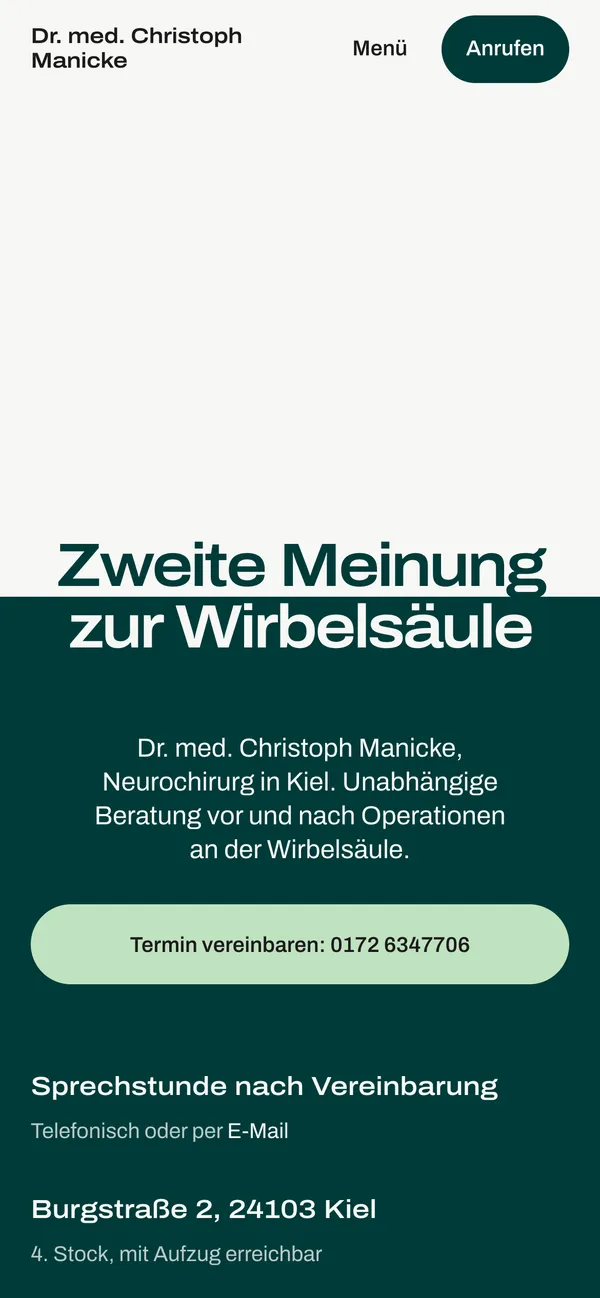
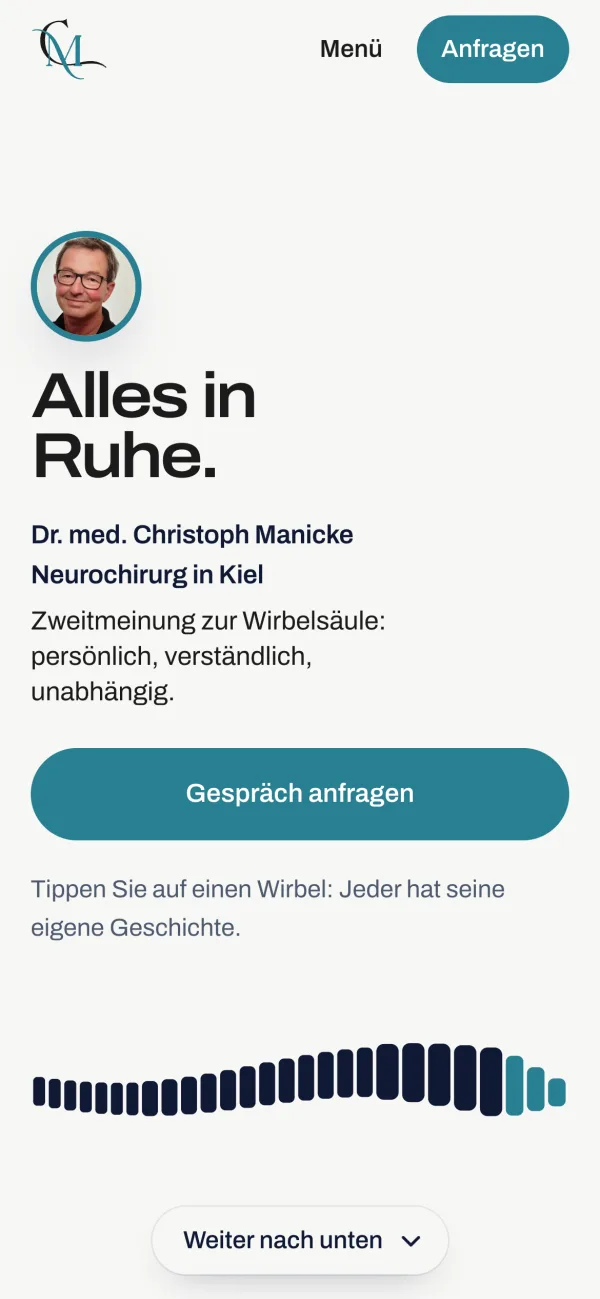
Startseite: Manicke ist live, vierte Karte bei den fertigen Seiten
christophmanicke.de ist online: neue Screenshots (Desktop und Handy), Karte mit
Link in der Werkreihe ("Vier Seiten ..."), raus aus "In Arbeit". Gruppe 42
steht dort jetzt allein über die volle Breite. Deutsch und Englisch.

diff --git a/public/index.html b/public/index.html
@@ -160,7 +160,7 @@ header { position:fixed; left:0; right:0; }
 .fanbox { position:absolute; left:-20vw; bottom:-17vw; width:min(72vw, 1080px); aspect-ratio:660/520; pointer-events:none; }
 .works { position:absolute; left:var(--pad); right:var(--pad); top:calc(88px + 3vh); z-index:2; }
 .works h2 { font-size:clamp(36px, 4.6vw, 68px); max-width:16em; }
-.slots { display:grid; grid-template-columns:repeat(3, 1fr); gap:clamp(20px, 3vw, 48px); margin-top:clamp(28px, 5vh, 64px); max-width:calc((100vh - 380px) * 4.3 + 96px); }
+.slots { display:grid; grid-template-columns:repeat(4, 1fr); gap:clamp(20px, 2.4vw, 40px); margin-top:clamp(28px, 5vh, 64px); max-width:calc((100vh - 380px) * 5.7 + 120px); }
 .slot { display:block; text-decoration:none; }
 /* Each card carries its phone view at the lower right, as on the close-ups; card and phone fade in together. */
 .slot .ph { position:relative; padding:0 7% 10% 0; opacity:.001; transform:scale(.92); will-change:transform, opacity; }
@@ -220,7 +220,7 @@ section, .stage { scroll-margin-top:72px; }
   .fanbox { width:min(130vw, calc((100vh - 400px + 14vw) * 1.27)); left:-36vw; bottom:-14vw; }
   .scroll-hint { display:none; }
   .slots { max-width:none; grid-template-columns:1fr; gap:14px; }
-  .slot { display:grid; grid-template-columns:min(40%, calc(((100vh - 300px) / 3 - 42px) * 1.6)) 1fr; column-gap:14px; }
+  .slot { display:grid; grid-template-columns:min(40%, calc(((100vh - 300px) / 4 - 42px) * 1.6)) 1fr; column-gap:14px; }
   .slot .ph { grid-row:span 2; padding:0; }
   .slot .phone { display:none; }
   .slot h3 { font-size:20px; margin-top:0; align-self:end; }
@@ -271,11 +271,12 @@ section, .stage { scroll-margin-top:72px; }
 </div>
 <p class="scroll-hint" id="hint">Weiter blättern ↓</p>
 <div class="works">
-<h2 class="s reveal">Drei Seiten, die schon draußen in der Welt sind.</h2>
+<h2 class="s reveal">Vier Seiten, die schon draußen in der Welt sind.</h2>
 <div class="slots">
 <a class="slot" href="https://zww-kiel.de" target="_blank" rel="noopener"><div class="ph"><div class="card"><div class="bar">zww-kiel.de</div><img src="assets/zww.webp" alt="Startseite von ZWW Uni Kiel" width="1600" height="1000"></div><img class="phone" src="assets/zww-mobil.webp" alt="" width="600" height="1298"></div><h3 class="s reveal">ZWW Uni Kiel</h3><p class="meta reveal">Hochschule, Weiterbildung</p></a>
 <a class="slot" href="https://habibihermanos.de" target="_blank" rel="noopener"><div class="ph"><div class="card"><div class="bar">habibihermanos.de</div><img src="assets/habibi.webp" alt="Startseite von Habibi Hermanos" width="1600" height="1000"></div><img class="phone" src="assets/habibi-mobil.webp" alt="" width="600" height="1298"></div><h3 class="s reveal">Habibi Hermanos</h3><p class="meta reveal">Musik, Kiel</p></a>
 <a class="slot" href="https://simonernstnirnberger.at" target="_blank" rel="noopener"><div class="ph"><div class="card"><div class="bar">simonernstnirnberger.at</div><img src="assets/simon.webp" alt="Startseite von Simon Ernst Nirnberger" width="1600" height="1000"></div><img class="phone" src="assets/simon-mobil.webp" alt="" width="600" height="1298"></div><h3 class="s reveal">Simon Ernst Nirnberger</h3><p class="meta reveal">Bildende Kunst</p></a>
+<a class="slot" href="https://christophmanicke.de" target="_blank" rel="noopener"><div class="ph"><div class="card"><div class="bar">christophmanicke.de</div><img src="assets/manicke.webp" alt="Startseite von Dr. med. Christoph Manicke" width="1600" height="1000"></div><img class="phone" src="assets/manicke-mobil.webp" alt="" width="600" height="1299"></div><h3 class="s reveal">Dr. med. Christoph Manicke</h3><p class="meta reveal">Neurochirurgie, Kiel</p></a>
 </div>
 </div>
 <div class="leaf" aria-hidden="true"><svg viewBox="585 140 470 490"><use href="#pg" style="fill:var(--paper);stroke:var(--paper)" stroke-width="30" stroke-linejoin="round"/><use href="#pg" style="fill:#BCD6EE"/><use href="#pg" style="fill:none;stroke:#BCD6EE" stroke-width="8" stroke-linejoin="round"/></svg></div>
@@ -286,13 +287,9 @@ section, .stage { scroll-margin-top:72px; }
 <section aria-labelledby="bald">
 <div class="wrap">
 <h2 class="s big" id="bald">Was gerade auf unserem Tisch liegt.</h2>
-<p class="soon-lead">Zwei Seiten, die noch nicht draußen sind. Bald.</p>
+<p class="soon-lead">Eine Seite, die noch nicht draußen ist. Bald.</p>
 <div class="cases">
-<article class="case">
-<div class="shot"><div class="frame"><div class="bar">Dr. med. Christoph Manicke<span class="status">In Arbeit</span></div><img src="assets/manicke.webp" alt="Entwurf der Startseite von Dr. med. Christoph Manicke: Zweite Meinung zur Wirbelsäule" width="1600" height="1000" loading="lazy"></div><img class="phone" src="assets/manicke-mobil.webp" alt="" width="600" height="1298" loading="lazy"></div>
-<h3 class="s">Dr. med. Christoph Manicke</h3><p class="sector">Neurochirurgie, Kiel</p><p class="d">Eine Praxisseite für die zweite Meinung zur Wirbelsäule: Leistungen, Ablauf, Fragen und der Weg zum Termin, per Telefon mit einem Tipp.</p>
-</article>
-<article class="case offset">
+<article class="case lead">
 <div class="shot"><div class="frame"><div class="bar">Gruppe 42<span class="status">In Arbeit</span></div><img src="assets/gruppe42.webp" alt="Entwurf der Startseite von Gruppe 42" width="1600" height="1000" loading="lazy"></div><img class="phone" src="assets/gruppe42-mobil.webp" alt="" width="600" height="1299" loading="lazy"></div>
 <h3 class="s">Gruppe 42</h3><p class="sector">Personalentwicklung und Beratung, Wien</p><p class="d">Ein Beratungsteam, viele Zielgruppen: Leistungen, Workshops nach Publikum, Referenzen, ein Seminarshop und eine Anfrage fürs erste Gespräch, alles auf einer Seite.</p>
 </article>

diff --git a/public/en/index.html b/public/en/index.html
@@ -160,7 +160,7 @@ header { position:fixed; left:0; right:0; }
 .fanbox { position:absolute; left:-20vw; bottom:-17vw; width:min(72vw, 1080px); aspect-ratio:660/520; pointer-events:none; }
 .works { position:absolute; left:var(--pad); right:var(--pad); top:calc(88px + 3vh); z-index:2; }
 .works h2 { font-size:clamp(36px, 4.6vw, 68px); max-width:16em; }
-.slots { display:grid; grid-template-columns:repeat(3, 1fr); gap:clamp(20px, 3vw, 48px); margin-top:clamp(28px, 5vh, 64px); max-width:calc((100vh - 380px) * 4.3 + 96px); }
+.slots { display:grid; grid-template-columns:repeat(4, 1fr); gap:clamp(20px, 2.4vw, 40px); margin-top:clamp(28px, 5vh, 64px); max-width:calc((100vh - 380px) * 5.7 + 120px); }
 .slot { display:block; text-decoration:none; }
 /* Each card carries its phone view at the lower right, as on the close-ups; card and phone fade in together. */
 .slot .ph { position:relative; padding:0 7% 10% 0; opacity:.001; transform:scale(.92); will-change:transform, opacity; }
@@ -220,7 +220,7 @@ section, .stage { scroll-margin-top:72px; }
   .fanbox { width:min(130vw, calc((100vh - 400px + 14vw) * 1.27)); left:-36vw; bottom:-14vw; }
   .scroll-hint { display:none; }
   .slots { max-width:none; grid-template-columns:1fr; gap:14px; }
-  .slot { display:grid; grid-template-columns:min(40%, calc(((100vh - 300px) / 3 - 42px) * 1.6)) 1fr; column-gap:14px; }
+  .slot { display:grid; grid-template-columns:min(40%, calc(((100vh - 300px) / 4 - 42px) * 1.6)) 1fr; column-gap:14px; }
   .slot .ph { grid-row:span 2; padding:0; }
   .slot .phone { display:none; }
   .slot h3 { font-size:20px; margin-top:0; align-self:end; }
@@ -271,11 +271,12 @@ section, .stage { scroll-margin-top:72px; }
 </div>
 <p class="scroll-hint" id="hint">Keep turning ↓</p>
 <div class="works">
-<h2 class="s reveal">Three sites already out in the world.</h2>
+<h2 class="s reveal">Four sites already out in the world.</h2>
 <div class="slots">
 <a class="slot" href="https://zww-kiel.de" target="_blank" rel="noopener"><div class="ph"><div class="card"><div class="bar">zww-kiel.de</div><img src="../assets/zww.webp" alt="Home page of ZWW Uni Kiel" width="1600" height="1000"></div><img class="phone" src="../assets/zww-mobil.webp" alt="" width="600" height="1298"></div><h3 class="s reveal">ZWW Uni Kiel</h3><p class="meta reveal">University, continuing education</p></a>
 <a class="slot" href="https://habibihermanos.de" target="_blank" rel="noopener"><div class="ph"><div class="card"><div class="bar">habibihermanos.de</div><img src="../assets/habibi.webp" alt="Home page of Habibi Hermanos" width="1600" height="1000"></div><img class="phone" src="../assets/habibi-mobil.webp" alt="" width="600" height="1298"></div><h3 class="s reveal">Habibi Hermanos</h3><p class="meta reveal">Music, Kiel</p></a>
 <a class="slot" href="https://simonernstnirnberger.at" target="_blank" rel="noopener"><div class="ph"><div class="card"><div class="bar">simonernstnirnberger.at</div><img src="../assets/simon.webp" alt="Home page of Simon Ernst Nirnberger" width="1600" height="1000"></div><img class="phone" src="../assets/simon-mobil.webp" alt="" width="600" height="1298"></div><h3 class="s reveal">Simon Ernst Nirnberger</h3><p class="meta reveal">Fine art</p></a>
+<a class="slot" href="https://christophmanicke.de" target="_blank" rel="noopener"><div class="ph"><div class="card"><div class="bar">christophmanicke.de</div><img src="../assets/manicke.webp" alt="Home page of Dr. med. Christoph Manicke" width="1600" height="1000"></div><img class="phone" src="../assets/manicke-mobil.webp" alt="" width="600" height="1299"></div><h3 class="s reveal">Dr. med. Christoph Manicke</h3><p class="meta reveal">Neurosurgery, Kiel</p></a>
 </div>
 </div>
 <div class="leaf" aria-hidden="true"><svg viewBox="585 140 470 490"><use href="#pg" style="fill:var(--paper);stroke:var(--paper)" stroke-width="30" stroke-linejoin="round"/><use href="#pg" style="fill:#BCD6EE"/><use href="#pg" style="fill:none;stroke:#BCD6EE" stroke-width="8" stroke-linejoin="round"/></svg></div>
@@ -286,13 +287,9 @@ section, .stage { scroll-margin-top:72px; }
 <section aria-labelledby="bald">
 <div class="wrap">
 <h2 class="s big" id="bald">What’s on our desk right now.</h2>
-<p class="soon-lead">Two sites that aren’t out yet. Soon.</p>
+<p class="soon-lead">One site that isn’t out yet. Soon.</p>
 <div class="cases">
-<article class="case">
-<div class="shot"><div class="frame"><div class="bar">Dr. med. Christoph Manicke<span class="status">In progress</span></div><img src="../assets/manicke.webp" alt="Draft home page for Dr. med. Christoph Manicke: a second opinion on the spine" width="1600" height="1000" loading="lazy"></div><img class="phone" src="../assets/manicke-mobil.webp" alt="" width="600" height="1298" loading="lazy"></div>
-<h3 class="s">Dr. med. Christoph Manicke</h3><p class="sector">Neurosurgery, Kiel</p><p class="d">A practice site for second opinions on the spine: services, process, questions and the way to an appointment, one tap to call.</p>
-</article>
-<article class="case offset">
+<article class="case lead">
 <div class="shot"><div class="frame"><div class="bar">Gruppe 42<span class="status">In progress</span></div><img src="../assets/gruppe42.webp" alt="Draft home page for Gruppe 42" width="1600" height="1000" loading="lazy"></div><img class="phone" src="../assets/gruppe42-mobil.webp" alt="" width="600" height="1299" loading="lazy"></div>
 <h3 class="s">Gruppe 42</h3><p class="sector">HR development and consulting, Vienna</p><p class="d">One consulting team, many audiences: services, workshops for each group, references, a seminar shop and an enquiry for the first call, all on one page.</p>
 </article>
